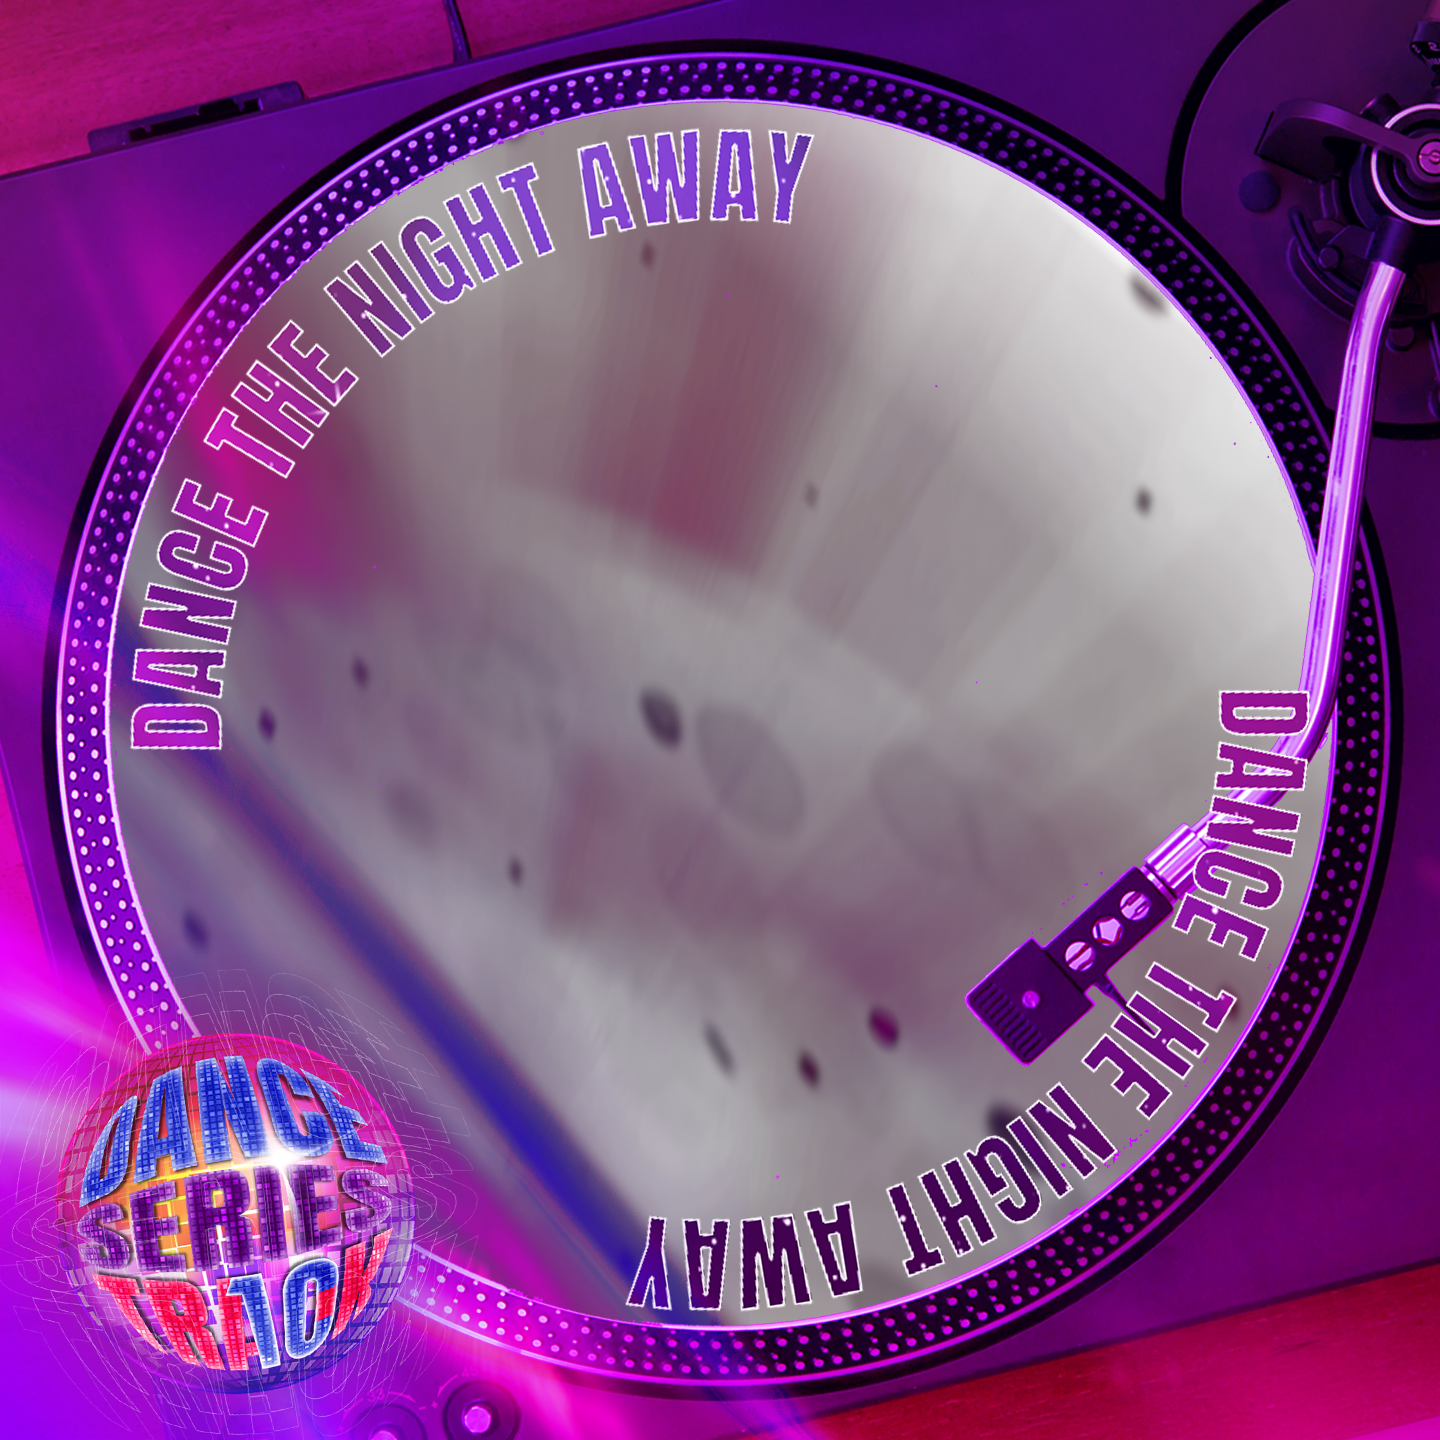
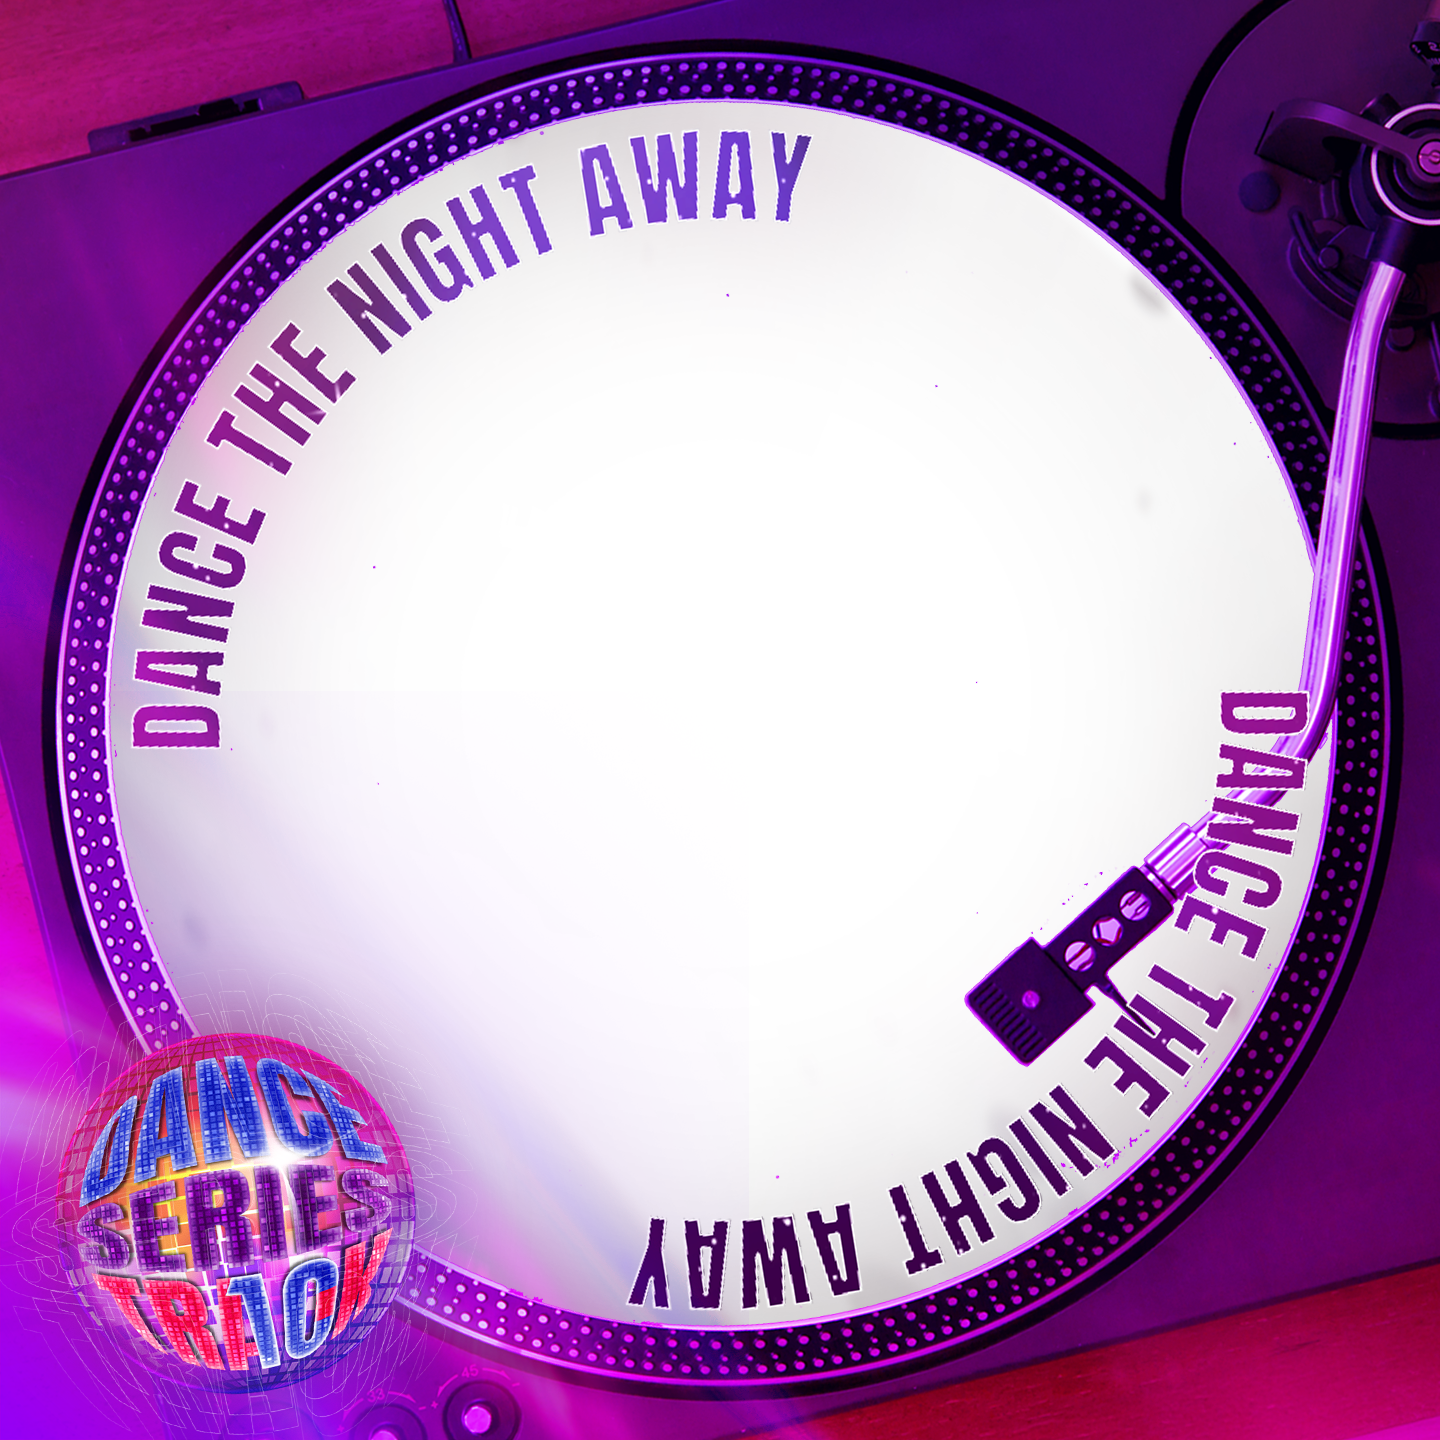
add rotation adjustment

diff --git a/app.js b/app.js
@@ -23,6 +23,7 @@
   const emptyPreview = document.getElementById("emptyPreview");
   const statusPill = document.getElementById("statusPill");
   const photoAdjustments = document.getElementById("photoAdjustments");
+  const rotateInput = document.getElementById("rotateInput");
   const zoomInput = document.getElementById("zoomInput");
   const horizontalInput = document.getElementById("horizontalInput");
   const verticalInput = document.getElementById("verticalInput");
@@ -53,9 +54,11 @@
   }
 
   function resetAdjustmentValues() {
+    rotateInput.value = "0";
     zoomInput.value = "100";
     horizontalInput.value = "0";
     verticalInput.value = "0";
+    document.getElementById("rotateValue").value = "0°";
     document.getElementById("zoomValue").value = "100%";
     document.getElementById("horizontalValue").value = "0%";
     document.getElementById("verticalValue").value = "0%";
@@ -68,16 +71,25 @@
 
   function getImageLayout() {
     const size = canvas.width;
-    const zoom = Number(zoomInput.value) / 100;
-    const scale = Math.max(size / currentImage.naturalWidth, size / currentImage.naturalHeight) * zoom;
-    const width = currentImage.naturalWidth * scale;
-    const height = currentImage.naturalHeight * scale;
+    const rotation = Number(rotateInput.value) * Math.PI / 180;
+    const absoluteCos = Math.abs(Math.cos(rotation));
+    const absoluteSin = Math.abs(Math.sin(rotation));
     const windowWidth = size * (photoWindow.right - photoWindow.left);
     const windowHeight = size * (photoWindow.bottom - photoWindow.top);
+    const scale = Math.max(
+      size / currentImage.naturalWidth,
+      size / currentImage.naturalHeight,
+      (absoluteCos * windowWidth + absoluteSin * windowHeight) / currentImage.naturalWidth,
+      (absoluteSin * windowWidth + absoluteCos * windowHeight) / currentImage.naturalHeight
+    ) * Number(zoomInput.value) / 100;
+    const width = currentImage.naturalWidth * scale;
+    const height = currentImage.naturalHeight * scale;
+    const rotatedWidth = absoluteCos * width + absoluteSin * height;
+    const rotatedHeight = absoluteSin * width + absoluteCos * height;
     const windowCenterX = size * (photoWindow.left + photoWindow.right) / 2;
     const windowCenterY = size * (photoWindow.top + photoWindow.bottom) / 2;
-    const travelX = Math.max(0, (width - windowWidth) / 2);
-    const travelY = Math.max(0, (height - windowHeight) / 2);
+    const travelX = Math.max(0, (rotatedWidth - windowWidth) / 2);
+    const travelY = Math.max(0, (rotatedHeight - windowHeight) / 2);
 
     return {
       size,
@@ -85,8 +97,9 @@
       height,
       travelX,
       travelY,
-      x: windowCenterX - width / 2 + Number(horizontalInput.value) / 100 * travelX,
-      y: windowCenterY - height / 2 + Number(verticalInput.value) / 100 * travelY
+      centerX: windowCenterX + Number(horizontalInput.value) / 100 * travelX,
+      centerY: windowCenterY + Number(verticalInput.value) / 100 * travelY,
+      rotation
     };
   }
 
@@ -177,10 +190,14 @@
   function drawFrame() {
     if (!currentImage || !context) return;
 
-    const { size, width, height, x, y } = getImageLayout();
+    const { size, width, height, centerX, centerY, rotation } = getImageLayout();
 
     context.clearRect(0, 0, size, size);
-    context.drawImage(currentImage, x, y, width, height);
+    context.save();
+    context.translate(centerX, centerY);
+    context.rotate(rotation);
+    context.drawImage(currentImage, -width / 2, -height / 2, width, height);
+    context.restore();
 
     if (currentOverlay) {
       context.drawImage(currentOverlay, 0, 0, size, size);
@@ -320,6 +337,10 @@
     drawFrame();
   });
 
+  rotateInput.addEventListener("input", () => {
+    document.getElementById("rotateValue").value = `${rotateInput.value}°`;
+    drawFrame();
+  });
   zoomInput.addEventListener("input", () => {
     document.getElementById("zoomValue").value = `${zoomInput.value}%`;
     drawFrame();

diff --git a/styles.css b/styles.css
@@ -214,7 +214,7 @@ button:focus-visible, input:focus-visible, .file-button:focus-visible {
 .photo-adjustments.is-visible { display: block; }
 .adjustment-heading { display: flex; align-items: center; justify-content: space-between; gap: 12px; margin-bottom: 11px; }
 .adjustment-heading .control-heading { margin: 0; }
-.adjustment-grid { display: grid; grid-template-columns: repeat(3, minmax(0, 1fr)); gap: 12px; }
+.adjustment-grid { display: grid; grid-template-columns: repeat(4, minmax(0, 1fr)); gap: 12px; }
 .adjustment-control { min-width: 0; }
 .adjustment-label { display: flex; justify-content: space-between; gap: 8px; margin-bottom: 6px; color: var(--white); font-size: 10px; font-weight: 700; }
 .adjustment-label output { color: var(--muted); font-variant-numeric: tabular-nums; }

diff --git a/index.html b/index.html
@@ -86,6 +86,10 @@
               </div>
               <div class="adjustment-grid">
                 <div class="adjustment-control">
+                  <label class="adjustment-label" for="rotateInput"><span>Rotate</span><output id="rotateValue" for="rotateInput">0°</output></label>
+                  <input id="rotateInput" type="range" min="-180" max="180" step="1" value="0">
+                </div>
+                <div class="adjustment-control">
                   <label class="adjustment-label" for="zoomInput"><span>Zoom</span><output id="zoomValue" for="zoomInput">100%</output></label>
                   <input id="zoomInput" type="range" min="100" max="300" step="1" value="100">
                 </div>

diff --git a/README.md b/README.md
@@ -11,7 +11,7 @@ A little midnight magic for your next event DP. **Dance the Night Away** is a li
 ## ✧ The experience
 
 1. **Add your photo** — choose a JPG, PNG, or WebP, or drop it into the upload area.
-2. **Find your framing** — drag to reposition your photo within the event frame’s opening, or adjust zoom and position with the controls. Reset anytime.
+2. **Find your framing** — drag to reposition, pinch to zoom on touch screens, or use the controls to rotate, zoom, and position your photo within the event frame’s opening. Reset anytime.
 3. **Take it with you** — download the finished event DP as a **1080 × 1080 PNG**, or open it in a new tab to press and hold the image to save it on mobile.
 
 Square photos are a natural fit, but photos of any shape can be cropped. Uploads are limited to **15 MB**.
